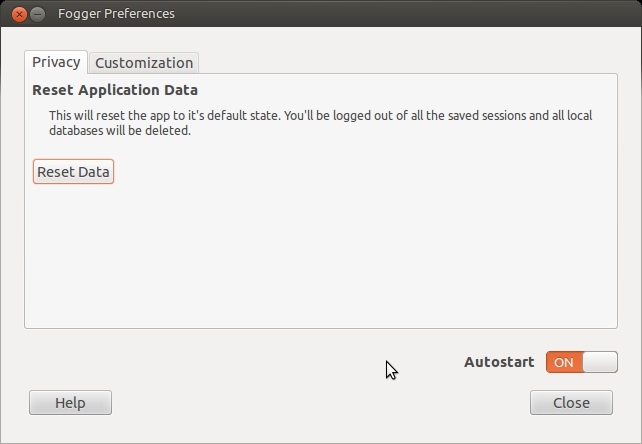
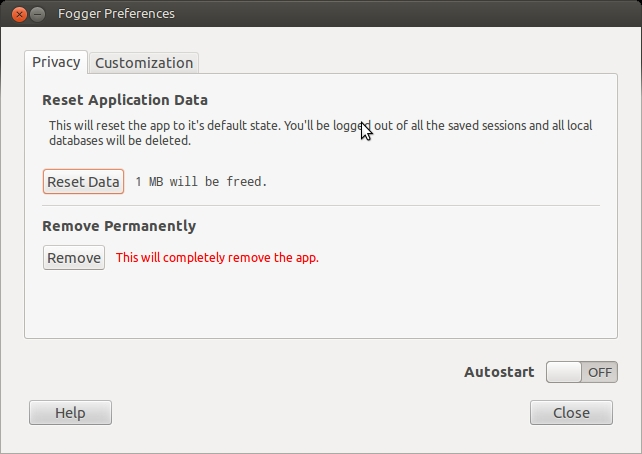
Moved remove item from menu to preferences

diff --git a/fogger/PreferencesFoggerDialog.py b/fogger/PreferencesFoggerDialog.py
@@ -1,16 +1,16 @@
 # -*- Mode: Python; coding: utf-8; indent-tabs-mode: nil; tab-width: 4 -*-
 ### BEGIN LICENSE
 # Copyright (C) 2012 Owais Lone <hello@owaislone.org>
-# This program is free software: you can redistribute it and/or modify it 
-# under the terms of the GNU General Public License version 3, as published 
+# This program is free software: you can redistribute it and/or modify it
+# under the terms of the GNU General Public License version 3, as published
 # by the Free Software Foundation.
-# 
-# This program is distributed in the hope that it will be useful, but 
-# WITHOUT ANY WARRANTY; without even the implied warranties of 
-# MERCHANTABILITY, SATISFACTORY QUALITY, or FITNESS FOR A PARTICULAR 
+#
+# This program is distributed in the hope that it will be useful, but
+# WITHOUT ANY WARRANTY; without even the implied warranties of
+# MERCHANTABILITY, SATISFACTORY QUALITY, or FITNESS FOR A PARTICULAR
 # PURPOSE.  See the GNU General Public License for more details.
-# 
-# You should have received a copy of the GNU General Public License along 
+#
+# You should have received a copy of the GNU General Public License along
 # with this program.  If not, see <http://www.gnu.org/licenses/>.
 ### END LICENSE
 
@@ -33,6 +33,7 @@ class PreferencesFoggerDialog(PreferencesDialog):
     __gsignals__ = {
         'fogger-autostart-changed': (GObject.SIGNAL_RUN_FIRST, None, (bool,)),
         'fogger-app-reset': (GObject.SIGNAL_RUN_FIRST, None, tuple()),
+        'fogger-app-remove': (GObject.SIGNAL_RUN_FIRST, None, tuple()),
     }
     scripts_path = None
     styles_path = None
@@ -59,6 +60,16 @@ class PreferencesFoggerDialog(PreferencesDialog):
         response = d.run()
         if response == Gtk.ResponseType.YES:
             self.emit('fogger-app-reset')
+            self.space_label.set_text('')
+        d.destroy()
+
+    def on_remove_app(self, widget, data=None):
+        d = ConfirmDialog('Remove', _('Are you sure you want to remove the app?'),
+                _('This will permanently remove the app and delete all the data associated with it.'),
+                None, self, 'gtk-delete')
+        response = d.run()
+        if response == Gtk.ResponseType.YES:
+            self.emit('fogger-app-remove')
             self.space_label.set_text('')
         d.destroy()
 

diff --git a/fogger/AppWindow.py b/fogger/AppWindow.py
@@ -1,16 +1,16 @@
 # -*- Mode: Python; coding: utf-8; indent-tabs-mode: nil; tab-width: 4 -*-
 ### BEGIN LICENSE
 # Copyright (C) 2012 Owais Lone <hello@owaislone.org>
-# This program is free software: you can redistribute it and/or modify it 
-# under the terms of the GNU General Public License version 3, as published 
+# This program is free software: you can redistribute it and/or modify it
+# under the terms of the GNU General Public License version 3, as published
 # by the Free Software Foundation.
-# 
-# This program is distributed in the hope that it will be useful, but 
-# WITHOUT ANY WARRANTY; without even the implied warranties of 
-# MERCHANTABILITY, SATISFACTORY QUALITY, or FITNESS FOR A PARTICULAR 
+#
+# This program is distributed in the hope that it will be useful, but
+# WITHOUT ANY WARRANTY; without even the implied warranties of
+# MERCHANTABILITY, SATISFACTORY QUALITY, or FITNESS FOR A PARTICULAR
 # PURPOSE.  See the GNU General Public License for more details.
-# 
-# You should have received a copy of the GNU General Public License along 
+#
+# You should have received a copy of the GNU General Public License along
 # with this program.  If not, see <http://www.gnu.org/licenses/>.
 ### END LICENSE
 
@@ -287,17 +287,9 @@ class FoggerAppWindow(AppWindow):
     def on_go_forward(self, widget, data=None):
         self.webview.go_forward()
 
-    def on_remove_fog_app(self, widget, data=None):
-        # TODO: COnfirmation dialog
-        d = ConfirmDialog(self.app.name, _('%s will be removed' % self.app.name),
-                _('Are you sure you want to remove this app?'), None, self,
-                'gtk-remove')
-        response = d.run()
-        d.destroy()
-
-        if response == Gtk.ResponseType.YES:
-            self.app.remove()
-            self.destroy()
+    def on_fogger_app_remove(self, widget, data=None):
+        self.app.remove()
+        self.destroy()
 
     def on_fogger_app_reset(self, widget, data=None):
         self.app.reset()

diff --git a/fogger_lib/AppWindow.py b/fogger_lib/AppWindow.py
@@ -1,16 +1,16 @@
 # -*- Mode: Python; coding: utf-8; indent-tabs-mode: nil; tab-width: 4 -*-
 ### BEGIN LICENSE
 # Copyright (C) 2012 Owais Lone <hello@owaislone.org>
-# This program is free software: you can redistribute it and/or modify it 
-# under the terms of the GNU General Public License version 3, as published 
+# This program is free software: you can redistribute it and/or modify it
+# under the terms of the GNU General Public License version 3, as published
 # by the Free Software Foundation.
-# 
-# This program is distributed in the hope that it will be useful, but 
-# WITHOUT ANY WARRANTY; without even the implied warranties of 
-# MERCHANTABILITY, SATISFACTORY QUALITY, or FITNESS FOR A PARTICULAR 
+#
+# This program is distributed in the hope that it will be useful, but
+# WITHOUT ANY WARRANTY; without even the implied warranties of
+# MERCHANTABILITY, SATISFACTORY QUALITY, or FITNESS FOR A PARTICULAR
 # PURPOSE.  See the GNU General Public License for more details.
-# 
-# You should have received a copy of the GNU General Public License along 
+#
+# You should have received a copy of the GNU General Public License along
 # with this program.  If not, see <http://www.gnu.org/licenses/>.
 ### END LICENSE
 
@@ -104,6 +104,7 @@ class AppWindow(Gtk.Window):
             self.preferences_dialog.connect('destroy', self.on_preferences_dialog_destroyed)
             self.preferences_dialog.connect('fogger-autostart-changed', self.on_fogger_autostart_changed)
             self.preferences_dialog.connect('fogger-app-reset', self.on_fogger_app_reset)
+            self.preferences_dialog.connect('fogger-app-remove', self.on_fogger_app_remove)
             self.preferences_dialog.show()
 
     def on_mnu_close_activate(self, widget, data=None):
@@ -135,4 +136,7 @@ class AppWindow(Gtk.Window):
         pass
 
     def on_fogger_autostart_changed(self, widget, data=None):
+        pass
+
+    def on_fogger_app_remove(self, widget, data=None):
         pass

diff --git a/fogger/__init__.py b/fogger/__init__.py
@@ -1,16 +1,16 @@
 # -*- Mode: Python; coding: utf-8; indent-tabs-mode: nil; tab-width: 4 -*-
 ### BEGIN LICENSE
 # Copyright (C) 2012 Owais Lone <hello@owaislone.org>
-# This program is free software: you can redistribute it and/or modify it 
-# under the terms of the GNU General Public License version 3, as published 
+# This program is free software: you can redistribute it and/or modify it
+# under the terms of the GNU General Public License version 3, as published
 # by the Free Software Foundation.
-# 
-# This program is distributed in the hope that it will be useful, but 
-# WITHOUT ANY WARRANTY; without even the implied warranties of 
-# MERCHANTABILITY, SATISFACTORY QUALITY, or FITNESS FOR A PARTICULAR 
+#
+# This program is distributed in the hope that it will be useful, but
+# WITHOUT ANY WARRANTY; without even the implied warranties of
+# MERCHANTABILITY, SATISFACTORY QUALITY, or FITNESS FOR A PARTICULAR
 # PURPOSE.  See the GNU General Public License for more details.
-# 
-# You should have received a copy of the GNU General Public License along 
+#
+# You should have received a copy of the GNU General Public License along
 # with this program.  If not, see <http://www.gnu.org/licenses/>.
 ### END LICENSE
 import optparse
@@ -89,6 +89,8 @@ def main():
                 else:
                     print 'Cleaned stale file: %s' % app.props.filename
 
+    if option_selected:
+        return
 
     # Run the application.
     if len(args) > 0:
@@ -109,7 +111,7 @@ def main():
         if app:
             app.run()
             Gtk.main()
-    elif not option_selected:
+    else:
         window = FoggerWindow.FoggerWindow()
         window.show()
         Gtk.main()
